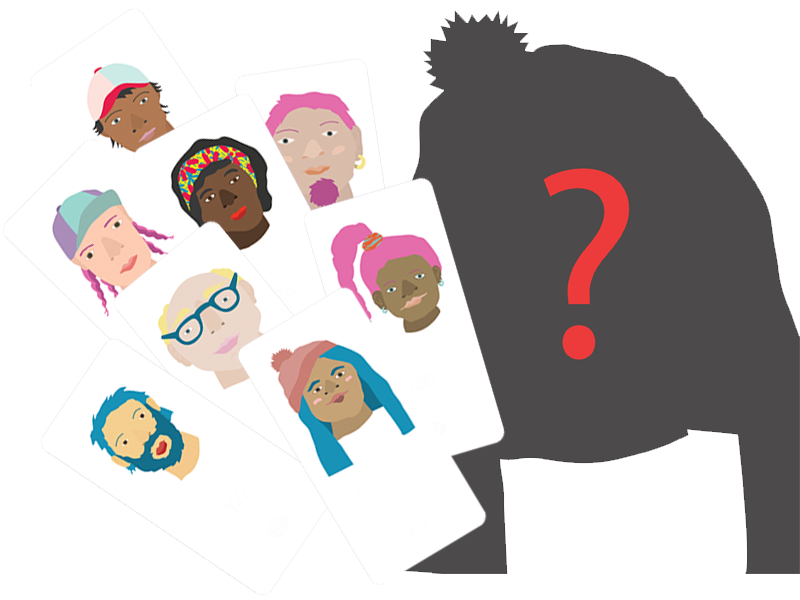
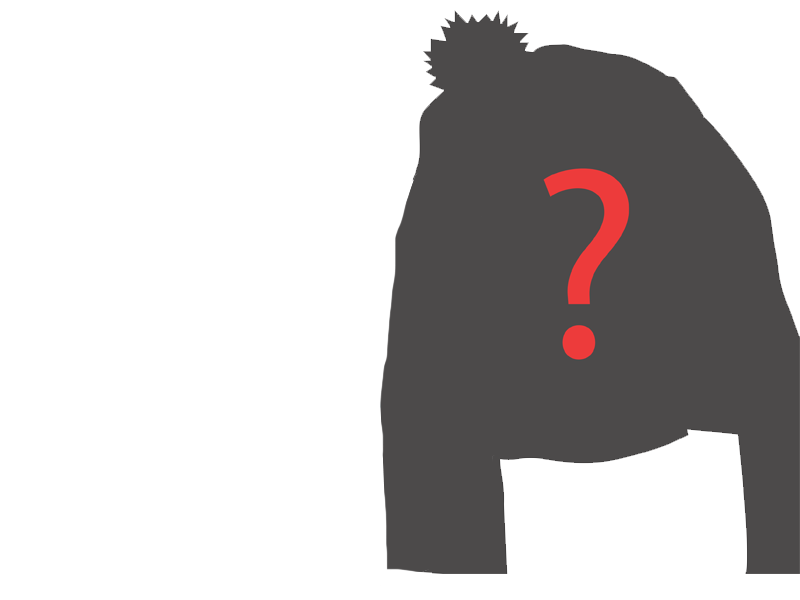
404 page

diff --git a/public/index.html b/public/index.html
@@ -3,7 +3,7 @@
   <head>
     <meta charset="utf-8" />
     <link rel="icon" href="%PUBLIC_URL%/favicon.ico" />
-    <!-- <meta name="viewport" content="width=device-width, initial-scale=1" /> -->
+    
     <meta name="viewport" content="initial-scale=1, width=device-width" />
     <meta name="theme-color" content="#000000" />
     <meta
@@ -12,36 +12,12 @@
       <link rel="preconnect" href="https://fonts.googleapis.com">
       <link rel="preconnect" href="https://fonts.gstatic.com" crossorigin>
       <link href="https://fonts.googleapis.com/css2?family=VT323&display=swap" rel="stylesheet">
-    
-    
-    <!--
-      manifest.json provides metadata used when your web app is installed on a
-      user's mobile device or desktop. See https://developers.google.com/web/fundamentals/web-app-manifest/
-    -->
-    
-    <!--
-      Notice the use of %PUBLIC_URL% in the tags above.
-      It will be replaced with the URL of the `public` folder during the build.
-      Only files inside the `public` folder can be referenced from the HTML.
 
-      Unlike "/favicon.ico" or "favicon.ico", "%PUBLIC_URL%/favicon.ico" will
-      work correctly both with client-side routing and a non-root public URL.
-      Learn how to configure a non-root public URL by running `npm run build`.
-    -->
-    <title>React App</title>
+    <title>Guess WHo Game</title>
   </head>
   <body>
     <noscript>You need to enable JavaScript to run this app.</noscript>
     <div id="root"></div>
-    <!--
-      This HTML file is a template.
-      If you open it directly in the browser, you will see an empty page.
-
-      You can add webfonts, meta tags, or analytics to this file.
-      The build step will place the bundled scripts into the <body> tag.
-
-      To begin the development, run `npm start` or `yarn start`.
-      To create a production bundle, use `npm run build` or `yarn build`.
-    -->
+  
   </body>
 </html>

diff --git a/src/App.js b/src/App.js
@@ -8,7 +8,7 @@ import {
 //PAGES
 import Home from './pages/Home'
 import Game from './pages/Game'
-import HowToPlay from './pages/HowToPlay'
+
 import NotFound from './pages/NotFound'
 import Footer from './components/Footer'
 
@@ -24,7 +24,7 @@ import { useState } from 'react';
 
 function App() {
 const [ mode, setMode ] = useState('easy')
-const [ openHowTo, setOpenHowTo ] = useState(false)
+
   
   return (
     <UserContextProv >
@@ -37,13 +37,13 @@ const [ openHowTo, setOpenHowTo ] = useState(false)
           
                <main>
                  <Routes>
-                   <Route path="/" element={<Home mode={mode} setMode={setMode} openHowTo={openHowTo} setOpenHowTo={setOpenHowTo} />} /> 
+                   <Route path="/" element={<Home mode={mode} setMode={setMode}  />} /> 
                    {/* <Route path="/login" element={<Login />} />
                    <Route path="/register" element={<Register />} /> */}
                    
-                   <Route path="/game" element={ <RequireName><Game mode={mode} setMode={setMode} openHowTo={openHowTo} setOpenHowTo={setOpenHowTo} /> </RequireName>} /> 
+                   <Route path="/game" element={ <RequireName><Game mode={mode} setMode={setMode}  /> </RequireName>} /> 
                    
-                   <Route path="/howtoplay" element={ <HowToPlay />  } />
+                   {/* <Route path="/howtoplay" element={ <HowToPlay />  } /> */}
                    <Route path="*" element={<NotFound />} />
                  </Routes>
                </main> 

diff --git a/src/pages/NotFound.js b/src/pages/NotFound.js
@@ -1,0 +1,41 @@
+import { NavLink } from "react-router-dom"
+import { Paper  } from '@material-ui/core'
+import { ThemeProvider } from '@material-ui/core';
+import { useUserContext } from "../context/UserContextProv"
+//import VisibilityIcon from '@mui/icons-material/Visibility';
+import theme from '../theme';
+
+
+
+const NotFound = () => {
+
+    const currentUser = useUserContext();
+    return (
+        <ThemeProvider theme={theme}>
+        <div className="startGame">
+        <Paper>
+        <div className="notFound">
+        
+        <div className='text'>
+                <h2>PAGE<br/>
+                NOT<br/>
+                FOUND</h2>
+               
+                    <div className="back">
+                    {(currentUser.userName) && 
+                    <span> <NavLink to='/game' >Back</NavLink> to the game... </span>}
+                    {(!currentUser.userName) &&
+                    <span><NavLink to='/' >Back</NavLink> to the homepage... </span>}
+                    </div>
+                </div>
+                <img className='NotFoundImg' src="guesswho.png"></img>
+                
+                </div>
+        
+        </Paper>
+        </div>
+        </ThemeProvider>
+    )
+}
+
+export default NotFound

diff --git a/src/index.css b/src/index.css
@@ -18,7 +18,7 @@ body {
 }
 
 
-.game, .startGame, .howToPlay  {
+.game, .startGame, .howToPlay {
   
   margin-top: 0;
   margin-left: 1rem;
@@ -26,7 +26,7 @@ body {
   padding: 1rem;
   text-align: center;
 }
-.box, .game {
+.box, .game,  .notFound  {
   display: flex;
   flex-flow: row nowrap;
   
@@ -36,8 +36,6 @@ body {
   justify-content: center;
   align-items: center;
 }
-
-
 
 .homeImg img {
   
@@ -56,8 +54,6 @@ body {
 }
 
 .rigth {
-  
-  
   justify-content: space-between;
   max-width: 100%;
   width: 300px;
@@ -221,4 +217,29 @@ body {
       
     }
     
-   
+.notFound  {
+  
+  border-radius: 30px;
+  display: flex;
+  flex-flow: row wrap;
+  
+  }   
+.notFound .text {
+  text-align: left;
+  margin-left: 1rem;
+}
+.notFound h2 {
+  font-family: 'VT323', monospace;
+  text-shadow: 2px 2px #673BB7;
+  font-size: 8rem;
+  color: #FFFFFF;
+}
+.notFound .back {
+  padding: 2rem;
+  
+}
+.notFoundImg {
+  max-width: 400px;
+  
+}
+

diff --git a/src/components/CharDialog.js b/src/components/CharDialog.js
@@ -1,7 +1,5 @@
 import React from "react";
 import Dialog from "@material-ui/core/Dialog";
-import DialogContentText from "@material-ui/core/DialogContentText";
-import DialogActions from "@material-ui/core/DialogActions";
 import DialogContent from "@material-ui/core/DialogContent";
 import Button from "@material-ui/core/Button";
 import CloseIcon from '@mui/icons-material/Close';
